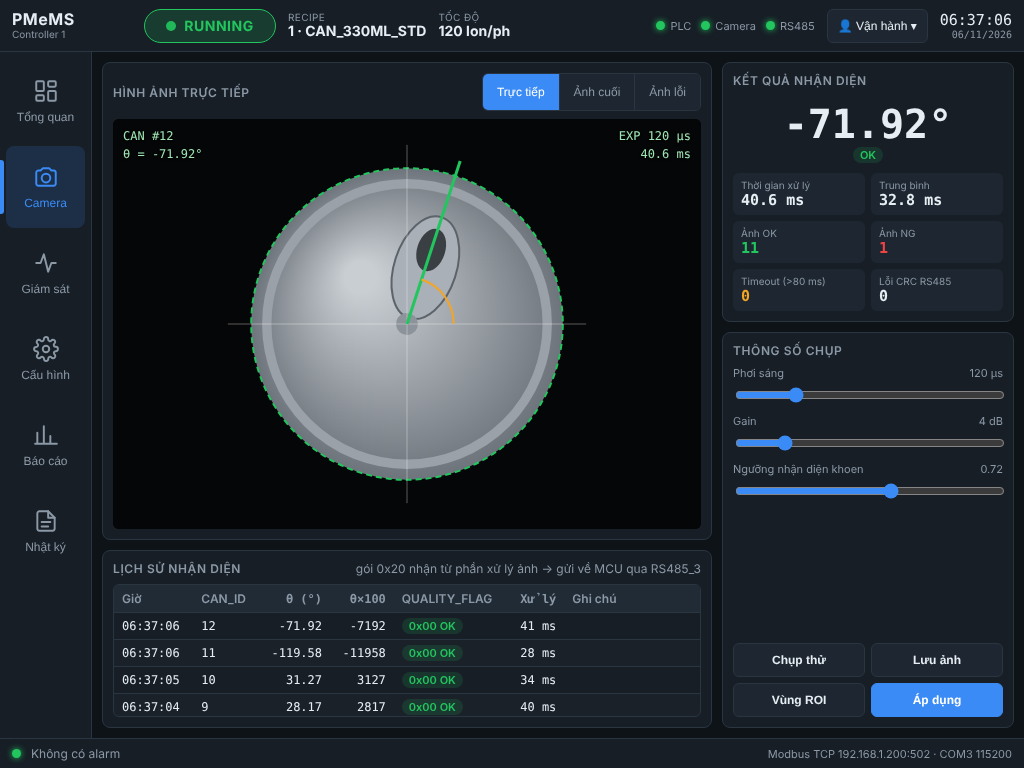
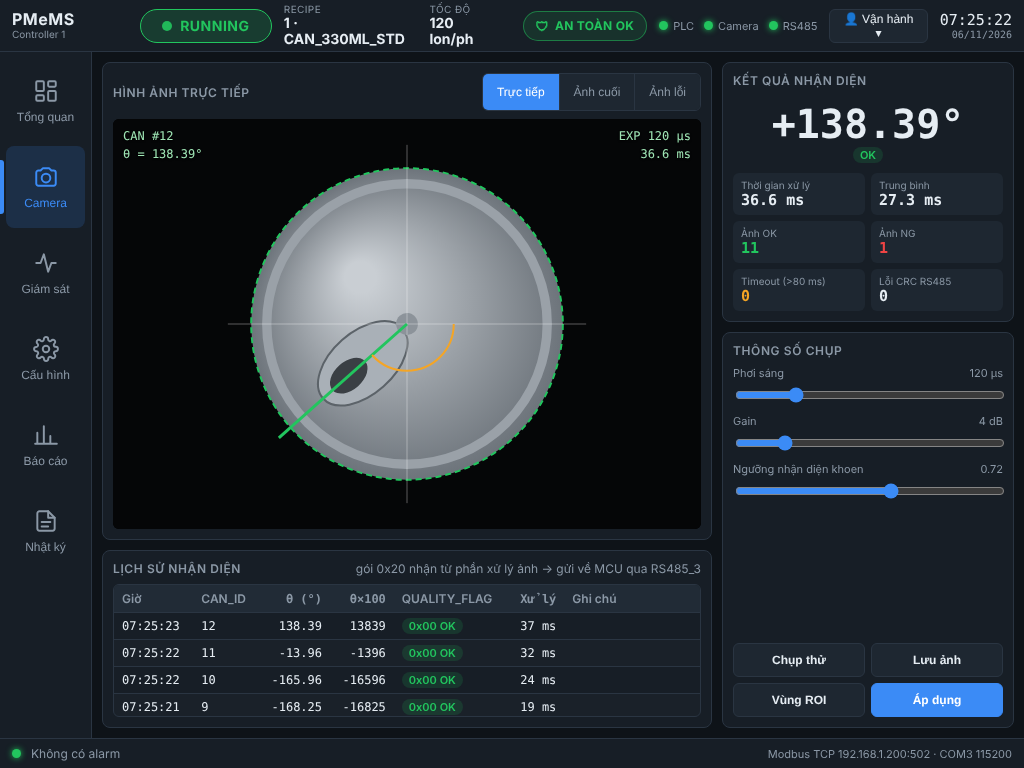
Show safety chain status in the PC UI mockup
- header chip: AN TOAN OK / E-STOP / CUA MO / THIEU KHI / MAT CAP LI /
  BAN THU, driven by input registers 30023-30024
- bench-mode stripe when the firmware is the controller1_bench build
- Monitoring > An toan tab: 5 signal tiles with text states and source
  bit, KM1 and M6 brake, E-Stop exit instructions, raw LI extension byte
  with 8 bits and a wiring check table for PCB v1 commissioning
- compact safety card on the stations tab
- behaviour aligned with firmware: the HMI RESET command does not leave
  E-STOP (physical SAFETY_RESET required), lost LI cable forces every
  signal unsafe, command buttons enabled per machine state
- README: PyQt6 mapping for the safety display; new screenshots

Claude-Session: https://claude.ai/code/session_0154dGGKBmYDx7NbFJ9VSV7F

diff --git a/docs/ui/app.js b/docs/ui/app.js
@@ -39,6 +39,7 @@ const ALARMS = {
   6: ["VACUUM_FEED_MISS", "Đầu hút không giữ được tem", "warn"],
   7: ["LABEL_TAPE_EMPTY", "Hết cuộn tem / đứt băng tem", "warn"],
   8: ["CYL_P5_TIMEOUT", "Xi lanh dán P5 quá 150 ms", "err"],
+  20: ["LI32_BUS_DISCONNECT", "Tuột cáp module ngõ vào LI32 / LI mở rộng", "err"],
 };
 
 const S = {
@@ -62,6 +63,11 @@ const S = {
   jogAxis: 0,
   activeRecipe: 1,
   selRecipe: 1,
+  /* Chuỗi an toàn - thanh ghi 30024 (true = an toàn). reset = nút SAFETY_RESET trên tủ */
+  safety: { estop: true, door: true, air: true, reset: false, bus: true },
+  /* Bản mẫu: thêm ?bench=1 hoặc ?src=gpio vào đường dẫn để xem các chế độ khác */
+  bench: new URLSearchParams(location.search).get("bench") === "1",   // 30023 bit3
+  srcLi: new URLSearchParams(location.search).get("src") !== "gpio",  // 30023 bit4
 };
 
 /* ------------------------------------------------------------------------ */
@@ -140,10 +146,13 @@ $$("[data-cmd]").forEach(b => b.addEventListener("click", () => {
       if (["RUN", "PAUSE"].includes(S.state)) setState("READY");
     });
   } else if (c === "reset") {
+    if (S.state === "ESTOP") {
+      // Giống firmware: lệnh 40001 = 4 KHÔNG đưa máy ra khỏi E-Stop
+      return addLog("warn", "HMI", "ALM_01", "Đang E-Stop: nhả nút E-Stop, đóng cửa rồi nhấn SAFETY_RESET trên tủ điện");
+    }
     S.alarms.clear(); renderAlarms();
     addLog("info", "HMI", "", "Xóa alarm (40001 = 4)");
     if (S.state === "ALARM") setState("READY");
-    if (S.state === "ESTOP") setState("HOME_REQ");
   } else if (c === "home") {
     if (["RUN", "PAUSE"].includes(S.state)) return;
     confirmBox("Về gốc toàn máy?", "Nhả P4, nâng P5, xả băng tải 5 giây rồi về gốc các trục M6, M3, M4, M5. Đảm bảo không có người trong vùng máy.", () => {
@@ -425,8 +434,7 @@ function buildMonitor() {
     `<div class="io"><i class="led" id="di${i}"></i><code>${Math.floor(i / 8)}.${i % 8}</code><span>${n}</span></div>`).join("");
   $("#do-grid").innerHTML = DO_NAMES.map((n, i) =>
     `<div class="io"><i class="led" id="do${i}"></i><code>${Math.floor(i / 8)}.${i % 8}</code><span>${n}</span></div>`).join("");
-  $("#safety").innerHTML = [["sf-estop", "E-Stop nhả"], ["sf-door", "Cửa đóng"], ["sf-air", "Khí ≥ 0.5 MPa"], ["sf-km1", "KM1 đóng"], ["sf-brake", "Phanh M6 nhả"], ["sf-li32", "Cáp LI32 OK"]]
-    .map(([id, t]) => `<div class="io"><i class="led on" id="${id}"></i><span>${t}</span></div>`).join("");
+  buildSafety();
   $("#cyl-grid").innerHTML = CYLS.map(([k, t]) =>
     `<div class="cyl"><div class="row"><b>${k}</b><span class="muted">${t}</span></div>` +
     `<div class="row"><span><i class="led" id="cyl-${k}-ext" style="display:inline-block;vertical-align:-2px"></i> Ra</span>` +
@@ -472,9 +480,6 @@ function renderMonitor() {
   }).join("");
 
   // an toàn
-  $("#sf-estop").classList.toggle("on", S.state !== "ESTOP");
-  $("#sf-km1").classList.toggle("on", S.state !== "ESTOP");
-  $("#sf-brake").classList.toggle("on", S.state !== "ESTOP");
   $("#vfd-hz").textContent = (v / 6.24).toFixed(2) + " Hz";
   $("#vfd-a").textContent = (run ? rnd(1.1, 1.3) : 0).toFixed(1) + " A";
 
@@ -524,6 +529,153 @@ $("#jog-enter").addEventListener("click", () => {
   else if (S.state === "READY") { setState("JOG"); $("#jog-enter").textContent = "Thoát chế độ chạy tay"; }
   else addLog("warn", "HMI", "", "Chỉ vào chạy tay khi máy READY");
 });
+
+/* ------------------------------------------------------------------------ */
+/* An toàn  (PyQt6: đọc status.estop_ok, door_closed, air_ok_sw, reset_pressed,  */
+/* io_bus_ok, safety_ext_raw (30024) và safety_bench_mode (30023 bit3))       */
+/* ------------------------------------------------------------------------ */
+const SF = [   // khóa, tên, chữ khi an toàn, chữ khi không an toàn, bit LI mở rộng, tên ngắn
+  ["estop", "Nút dừng khẩn cấp", "Đã nhả", "ĐANG NHẤN", 0, "E-Stop nhả"],
+  ["door", "Cửa bảo vệ", "Đóng", "ĐANG MỞ", 1, "Cửa đóng"],
+  ["air", "Áp suất khí nén", "≥ 0.5 MPa", "THIẾU KHÍ", 2, "Đủ khí nén"],
+  ["reset", "Nút SAFETY_RESET", "Không nhấn", "ĐANG NHẤN", 3, "Nút Reset"],
+  ["bus", "Cáp module LI", "Kết nối tốt", "MẤT KẾT NỐI", -1, "Cáp LI"],
+];
+
+/** Giá trị firmware đọc được: mất cáp LI thì mọi tín hiệu bị coi là KHÔNG an toàn. */
+function sfRead() {
+  const s = S.safety;
+  if (S.bench) return { estop: true, door: true, air: true, reset: false, bus: s.bus };
+  const failAll = S.srcLi && !s.bus;
+  return { estop: s.estop && !failAll, door: s.door && !failAll, air: s.air && !failAll, reset: s.reset && !failAll, bus: s.bus };
+}
+function sfRaw() {
+  const s = S.safety;
+  if (!S.srcLi) return 0;
+  if (!s.bus) return 0xFF;
+  return (s.estop ? 1 : 0) | (s.door ? 2 : 0) | (s.air ? 4 : 0) | (s.reset ? 8 : 0);
+}
+const km1On = () => !S.bench && S.state !== "ESTOP" && S.state !== "POWER_ON";
+
+function buildSafety() {
+  $("#sf-tiles").innerHTML = SF.map(([k, name]) =>
+    `<button class="sf-tile" data-sf="${k}"><small>${name}</small><b id="sft-${k}">–</b><span class="src" id="sfs-${k}"></span></button>`).join("");
+  $("#sf-power").innerHTML =
+    `<div class="sf-tile" style="cursor:default"><small>Contactor KM1 (nguồn động lực)</small><b id="sft-km1">–</b><span class="src">GPIO PC4</span></div>` +
+    `<div class="sf-tile" style="cursor:default"><small>Phanh trục nâng M6</small><b id="sft-brake">–</b><span class="src">GPIO PC5</span></div>`;
+  const names = ["E-Stop", "Cửa", "Khí", "Reset", "–", "–", "–", "–"];
+  $("#sf-bits").innerHTML = names.map((n, i) =>
+    `<div class="bit ${i < 4 ? "used" : ""}" id="sfb-${i}"><b>0</b>b${i} ${n}</div>`).reverse().join("");
+  $("#sf-check").innerHTML = [
+    ["Bình thường (nhả E-Stop, đóng cửa, đủ khí)", "0x07"],
+    ["Nhấn E-Stop", "0x06"],
+    ["Mở cửa bảo vệ", "0x05"],
+    ["Khóa van khí", "0x03"],
+    ["Giữ nút SAFETY_RESET", "0x0F"],
+    ["Rút cáp LI", "Bus --"],
+  ].map(([t, v], i) => `<tr><td>${t}</td><td class="num">${v}</td><td id="sfc-${i}"></td></tr>`).join("");
+  $("#safety").innerHTML = SF.map(([k, , , , , short]) =>
+    `<div class="io" id="sfm-${k}"><i class="led"></i><span>${short}</span></div>`).join("") +
+    `<div class="io" id="sfm-km1"><i class="led"></i><span>KM1 đóng</span></div>`;
+
+  // Bản mẫu: nhấn ô để giả lập tín hiệu (bản PyQt6 chỉ hiển thị, không có thao tác này)
+  $("#sf-tiles").addEventListener("click", e => {
+    const t = e.target.closest("[data-sf]"); if (!t) return;
+    if (S.bench) return addLog("warn", "Safety", "", "Chế độ bàn thử: chuỗi an toàn bị bỏ qua");
+    const k = t.dataset.sf;
+    if (k === "reset") {             // nút nhấn nhả: giữ 1 giây
+      S.safety.reset = true;
+      setTimeout(() => { S.safety.reset = false; }, 1000);
+    } else {
+      S.safety[k] = !S.safety[k];
+    }
+  });
+}
+
+/** Phản ứng của firmware với chuỗi an toàn (giả lập io.c + machine.c). */
+function simSafety() {
+  const r = sfRead();
+  const moving = ["RUN", "PAUSE", "HOMING", "JOG"].includes(S.state);
+  if (!r.bus) raiseAlarm(20);
+  if (!r.estop) {
+    raiseAlarm(1);
+    if (S.state !== "ESTOP") { S.cans = []; setState("ESTOP"); }
+  }
+  if (!r.door) {
+    raiseAlarm(2);
+    if (moving) { S.cans = []; setState("ESTOP"); }
+  } else if (!moving && S.state !== "ESTOP" && S.alarms.has(2)) {
+    S.alarms.delete(2);              // cửa đóng lại khi máy đứng yên: tự xóa
+    renderAlarms();
+  }
+  if (!r.air) raiseAlarm(3);
+  // Thoát E-Stop: E-Stop nhả + cửa đóng + nhấn SAFETY_RESET (nút vật lý trên tủ)
+  if (S.state === "ESTOP" && r.estop && r.door && r.reset) {
+    S.alarms.clear();
+    renderAlarms();
+    addLog("info", "Safety", "", "SAFETY_RESET – thoát E-Stop, cần homing lại");
+    setState("HOME_REQ");
+  }
+}
+
+function renderSafety() {
+  const r = sfRead();
+  // ô trên thanh tiêu đề
+  const chip = $("#hdr-safety");
+  const bad = !r.bus ? "MẤT CÁP LI" : !r.estop ? "E-STOP" : !r.door ? "CỬA MỞ" : !r.air ? "THIẾU KHÍ" : "";
+  chip.className = "safety-chip " + (S.bench ? "bench" : bad ? "bad" : "ok");
+  chip.textContent = S.bench ? "BÀN THỬ" : (bad || "AN TOÀN OK");
+  $("#app").classList.toggle("bench", S.bench);
+
+  // thẻ tóm tắt (tab Trạm & trục)
+  for (const [k] of SF) {
+    const el = $("#sfm-" + k);
+    const ok = k === "reset" ? true : r[k];
+    el.classList.toggle("bad", !ok);
+    $(".led", el).className = "led " + (k === "reset" ? (r.reset ? "on" : "") : (ok ? "on" : "on red"));
+  }
+  $("#sfm-km1 .led").classList.toggle("on", km1On());
+
+  // tab An toàn
+  for (const [k, , txtOk, txtBad, bit] of SF) {
+    const t = $(`[data-sf="${k}"]`);
+    const ok = r[k];
+    const skip = S.bench && k !== "bus";
+    t.className = "sf-tile " + (skip ? "skip" : k === "reset" ? (ok ? "act" : "ok") : (ok ? "ok" : "bad"));
+    $("#sft-" + k).textContent = skip ? "BỎ QUA" : k === "reset" ? (ok ? "ĐANG NHẤN" : txtOk) : (ok ? txtOk : txtBad);
+    $("#sfs-" + k).textContent = bit < 0 ? "30024 bit4" : (S.srcLi ? `LI mở rộng · bit ${bit}` : "GPIO PC" + bit);
+  }
+  const km = km1On();
+  $("#sft-km1").textContent = S.bench ? "KHÓA TẮT" : (km ? "Đóng" : "Cắt");
+  $("#sft-km1").parentElement.className = "sf-tile " + (km ? "ok" : "bad");
+  $("#sft-brake").textContent = km ? "Nhả" : "Đóng phanh";
+  $("#sft-brake").parentElement.className = "sf-tile " + (km ? "ok" : "act");
+  $("#sf-estop-help").classList.toggle("show", S.state === "ESTOP");
+  $("#sf-hint").textContent = S.bench ? "Firmware bản bàn thử" : "Bản mẫu: nhấn vào ô để giả lập tín hiệu";
+
+  // byte thô của IC LI mở rộng
+  const raw = sfRaw();
+  $("#sf-src").textContent = S.srcLi ? "PCB v1 · 74HCT165" : "PCB v2 · GPIO";
+  $("#sf-raw").textContent = S.srcLi ? "0x" + raw.toString(16).toUpperCase().padStart(2, "0") : "—";
+  for (let i = 0; i < 8; i++) {
+    const one = S.srcLi && ((raw >> i) & 1) === 1;
+    const b = $("#sfb-" + i);
+    b.classList.toggle("one", one);
+    $("b", b).textContent = S.srcLi ? (one ? "1" : "0") : "–";
+  }
+  const s = S.safety;
+  const now_ = [s.estop && s.door && s.air && !s.reset && s.bus, !s.estop, !s.door, !s.air, s.reset, !s.bus];
+  now_.forEach((on, i) => { $("#sfc-" + i).innerHTML = on ? '<span class="tag info">◀ hiện tại</span>' : ""; });
+}
+
+/** Bật/tắt nút điều khiển theo trạng thái máy (PyQt6: QPushButton.setEnabled) */
+function updateButtons() {
+  const en = {
+    start: ["READY", "PAUSE"], pause: ["RUN"], stop: ["RUN", "PAUSE"],
+    reset: ["READY", "ALARM", "HOME_REQ", "ESTOP", "PAUSE", "RUN"], home: ["HOME_REQ", "READY", "ALARM"],
+  };
+  $$("[data-cmd]").forEach(b => { b.disabled = !en[b.dataset.cmd].includes(S.state); });
+}
 
 /* ------------------------------------------------------------------------ */
 /* Trang Cấu hình - Recipe  (PyQt6: plc.read_recipe / plc.save_recipe)       */
@@ -690,6 +842,9 @@ let last = performance.now();
 setInterval(() => {
   const t = performance.now(), dt = (t - last) / 1000; last = t;
   simStep(dt);
+  simSafety();
+  renderSafety();
+  updateButtons();
   renderConveyor();
   renderDashboard();
   renderHeader();
@@ -700,4 +855,4 @@ setInterval(() => {
 setInterval(renderClock, 1000);
 
 // Bản mẫu tự chạy sau 1 giây để thấy dữ liệu chuyển động (xóa khi dùng thật)
-setTimeout(() => setState("RUN"), 1000);
+setTimeout(() => setState(S.bench ? "HOME_REQ" : "RUN"), 1000);

diff --git a/docs/ui/index.html b/docs/ui/index.html
@@ -27,6 +27,8 @@
     <div class="hdr-item"><small>Recipe</small><b id="hdr-recipe">1 · CAN_330ML_STD</b></div>
     <div class="hdr-item"><small>Tốc độ</small><b><span id="hdr-speed">0</span> lon/ph</b></div>
     <div class="hdr-spacer"></div>
+    <!-- Trạng thái an toàn: thanh ghi 30024 (+ 30023 bit3 chế độ bàn thử) -->
+    <div class="safety-chip ok" id="hdr-safety" title="Trạng thái chuỗi an toàn">AN TOÀN OK</div>
     <div class="links">
       <span class="link"><i class="dot ok" id="lnk-plc"></i>PLC</span>
       <span class="link"><i class="dot ok" id="lnk-cam"></i>Camera</span>
@@ -60,6 +62,8 @@
 
   <!-- ============================== MAIN ================================ -->
   <main class="main">
+    <!-- Chỉ hiện khi firmware là bản controller1_bench (30023 bit3) -->
+    <div class="bench-banner" id="bench-banner">⚠ CHẾ ĐỘ BÀN THỬ – chuỗi an toàn bị BỎ QUA, KM1 bị KHÓA TẮT. Không dùng để vận hành máy.</div>
 
     <!-- ===================== 1. TỔNG QUAN ===================== -->
     <section class="page active" id="page-dashboard">
@@ -183,6 +187,7 @@
         <button class="active" data-sub="mon-stations">Trạm &amp; trục</button>
         <button data-sub="mon-io">Ngõ vào / ra</button>
         <button data-sub="mon-jog">Chạy tay</button>
+        <button data-sub="mon-safety">An toàn</button>
       </div>
 
       <div class="subpage active" id="mon-stations">
@@ -206,7 +211,7 @@
             </table></div>
           </div>
           <div class="card">
-            <h3>An toàn &amp; tiện ích</h3>
+            <h3>An toàn <span class="right mono muted">30024</span></h3>
             <div class="safety" id="safety"></div>
             <h3 style="margin-top:12px">Biến tần băng tải M1</h3>
             <div class="stat-grid">
@@ -216,6 +221,34 @@
               <div class="stat"><small>Truyền thông</small><b class="ok-t" id="vfd-com">Online</b></div>
             </div>
           </div>
+        </div>
+      </div>
+
+      <!-- Tab An toàn: dùng khi nghiệm thu đấu dây J_SAFETY / LI mở rộng -->
+      <div class="subpage" id="mon-safety">
+        <div class="card">
+          <h3>Chuỗi an toàn <span class="right muted" id="sf-hint">Bản mẫu: nhấn vào ô để giả lập tín hiệu</span></h3>
+          <div class="sf-tiles" id="sf-tiles"></div>
+          <h3 style="margin-top:12px">Nguồn động lực</h3>
+          <div class="sf-tiles two" id="sf-power"></div>
+          <div class="sf-estop-help" id="sf-estop-help">
+            <b>Máy đang ở E-STOP.</b> Để thoát: nhả nút E-Stop → đóng cửa bảo vệ → nhấn nút
+            <b>SAFETY_RESET</b> trên tủ điện → máy chuyển sang “Cần homing”.
+            Nút RESET trên màn hình chỉ xóa alarm, không đưa máy ra khỏi E-Stop.
+          </div>
+        </div>
+        <div class="card">
+          <h3>Mạch LI mở rộng <span class="right mono muted" id="sf-src">PCB v1 · 74HCT165</span></h3>
+          <div class="row" style="justify-content:space-between; margin-bottom:6px">
+            <span class="muted">Giá trị thô (byte cao của 30024)</span>
+            <b class="mono" style="font-size:22px" id="sf-raw">0x07</b>
+          </div>
+          <div class="bits" id="sf-bits"></div>
+          <h3 style="margin-top:12px">Kiểm tra đấu dây</h3>
+          <div class="table-wrap"><table>
+            <thead><tr><th>Thao tác</th><th class="num">Phải đọc ra</th><th></th></tr></thead>
+            <tbody id="sf-check"></tbody>
+          </table></div>
         </div>
       </div>
 

diff --git a/docs/ui/styles.css b/docs/ui/styles.css
@@ -198,6 +198,43 @@ td.num, th.num { text-align: right; font-family: var(--mono); }
 .modal p { margin: 0 0 16px; color: var(--muted); line-height: 1.5; }
 .modal .row { justify-content: flex-end; }
 
+/* =============================== An toàn ================================= */
+.safety-chip { height: 30px; padding: 0 12px; border-radius: 15px; display: flex; align-items: center; gap: 6px;
+  font-size: 12px; font-weight: 700; letter-spacing: .3px; white-space: nowrap; }
+.safety-chip::before { content: "🛡"; font-size: 13px; }
+.safety-chip.ok { background: rgba(34,197,94,.12); color: var(--ok); border: 1px solid rgba(34,197,94,.5); }
+.safety-chip.bad { background: var(--err); color: #fff; border: 1px solid var(--err); animation: blink 1s steps(2) infinite; }
+.safety-chip.bench { background: #7c2d12; color: #fed7aa; border: 1px solid #ea580c; }
+.bench-banner { display: none; position: absolute; left: 0; right: 0; top: 0; height: 26px; z-index: 5;
+  align-items: center; justify-content: center; font-size: 12px; font-weight: 700; color: #fff;
+  background: repeating-linear-gradient(45deg, #9a3412 0 14px, #7c2d12 14px 28px); }
+.app.bench .bench-banner { display: flex; }
+.app.bench .page { top: 26px; }
+#mon-safety { grid-template-columns: repeat(2, minmax(0, 1fr)); gap: 10px; }
+.sf-tiles { display: grid; grid-template-columns: repeat(3, minmax(0, 1fr)); gap: 8px; }
+.sf-tiles.two { grid-template-columns: repeat(2, minmax(0, 1fr)); }
+.sf-tile { min-height: 74px; border-radius: 8px; padding: 10px 12px; background: var(--panel-2); border: 1px solid var(--line);
+  display: flex; flex-direction: column; justify-content: space-between; cursor: pointer; text-align: left; color: var(--text); }
+.sf-tile small { color: var(--muted); font-size: 11px; }
+.sf-tile b { font-size: 15px; white-space: nowrap; display: flex; align-items: center; gap: 8px; }
+.sf-tile b::before { content: ""; width: 14px; height: 14px; border-radius: 50%; background: var(--off); }
+.sf-tile.ok b::before { background: var(--ok); box-shadow: 0 0 8px var(--ok); }
+.sf-tile.bad { border-color: var(--err); background: rgba(239,68,68,.12); }
+.sf-tile.bad b { color: #fecaca; }
+.sf-tile.bad b::before { background: var(--err); box-shadow: 0 0 8px var(--err); }
+.sf-tile.act b::before { background: var(--info); box-shadow: 0 0 8px var(--info); }
+.sf-tile.skip { opacity: .55; }
+.sf-tile .src { font-family: var(--mono); font-size: 10px; color: var(--muted); }
+.sf-estop-help { display: none; margin-top: 12px; padding: 10px 12px; border-radius: 8px; line-height: 1.55;
+  background: rgba(239,68,68,.12); border: 1px solid var(--err); color: #fecaca; font-size: 12px; }
+.sf-estop-help.show { display: block; }
+.bits { display: grid; grid-template-columns: repeat(8, 1fr); gap: 4px; }
+.bit { border-radius: 6px; background: var(--panel-2); text-align: center; padding: 5px 0 4px; font-size: 10px; color: var(--muted); }
+.bit b { display: block; font-family: var(--mono); font-size: 18px; color: var(--muted); }
+.bit.one b { color: var(--ok); }
+.bit.used { border: 1px solid var(--line); }
+.safety .io.bad { background: rgba(239,68,68,.15); color: #fecaca; }
+
 /* =============================== Trang: Tổng quan ======================== */
 #page-dashboard { grid-template-columns: 290px 1fr; grid-template-rows: 156px 190px 1fr; }
 .ctrl { grid-row: 1 / 3; }

diff --git a/docs/ui/README.md b/docs/ui/README.md
@@ -123,6 +123,33 @@ Form recipe:
 Sự kiện được ghi khi PC phát hiện thay đổi: trạng thái FSM (30001), bit alarm (30019–20),
 kết quả Vision NG/timeout, mất kết nối.
 
+### 2.7. An toàn (ô trên thanh tiêu đề + tab Giám sát → An toàn)
+
+Dữ liệu: `read_status()` → `estop_ok`, `door_closed`, `air_ok_sw`, `reset_pressed`, `io_bus_ok`,
+`safety_ext_raw` (thanh ghi **30024**), `safety_bench_mode`, `safety_via_li_ext` (30023 bit3, bit4).
+
+| Thành phần | Widget | Hiển thị |
+|---|---|---|
+| Ô an toàn trên thanh tiêu đề | `QLabel` đổi property `state` = ok / bad / bench | "AN TOÀN OK" (xanh), "E-STOP" / "CỬA MỞ" / "THIẾU KHÍ" / "MẤT CÁP LI" (đỏ, nhấp nháy), "BÀN THỬ" (cam) |
+| Băng cảnh báo bàn thử | `QLabel` nền sọc cam phía trên vùng nội dung, `setVisible(status.safety_bench_mode)` | Luôn hiện khi firmware là bản `controller1_bench` |
+| 5 ô tín hiệu | `QFrame` + 2 `QLabel` (tên, trạng thái kèm chữ) | Đèn + chữ: "Đã nhả / ĐANG NHẤN", "Đóng / ĐANG MỞ"… và nguồn (LI mở rộng bit n / GPIO) |
+| KM1, phanh M6 | `QFrame` | Suy ra từ trạng thái máy: KM1 cắt ở E-STOP; "KHÓA TẮT" ở bản bàn thử |
+| Hướng dẫn thoát E-Stop | `QLabel` nền đỏ, chỉ hiện ở E-STOP | Nhả E-Stop → đóng cửa → nhấn **SAFETY_RESET trên tủ** |
+| Byte thô LI mở rộng | `QLabel` hex + 8 ô bit | `safety_ext_raw` (byte cao 30024), dùng khi nghiệm thu đấu dây |
+| Bảng kiểm tra đấu dây | `QTableWidget` 6 dòng | Đánh dấu "◀ hiện tại" ở dòng khớp với tín hiệu đang đọc |
+| Thẻ tóm tắt (tab Trạm & trục) | 6 đèn LED nhỏ | E-Stop, cửa, khí, reset, cáp LI, KM1 |
+
+Quy tắc giao diện (giống firmware, `src/app/machine.c`):
+- Nút RESET trên màn hình (40001 = 4) **không** đưa máy ra khỏi E-STOP; chỉ nút SAFETY_RESET vật lý
+  làm được. Khi người vận hành bấm RESET lúc E-STOP, hiện hướng dẫn thay vì gửi lệnh vô ích.
+- Bật/tắt nút điều khiển theo trạng thái: START chỉ ở READY/PAUSE, HOMING chỉ ở
+  HOMING_REQUIRED/READY/ALARM… (`updateButtons()` trong `app.js`).
+- Giao diện chỉ **hiển thị** an toàn, không bao giờ ghi gì vào chuỗi an toàn. Trong bản mẫu, nhấn vào
+  ô tín hiệu để giả lập; bản PyQt6 không có thao tác này.
+
+Xem thử các chế độ trong bản mẫu: mở `index.html?bench=1` (bản bàn thử) hoặc
+`index.html?src=gpio` (PCB v2, an toàn qua GPIO).
+
 ---
 
 ## 3. Kiến trúc chương trình PyQt6 đề xuất
